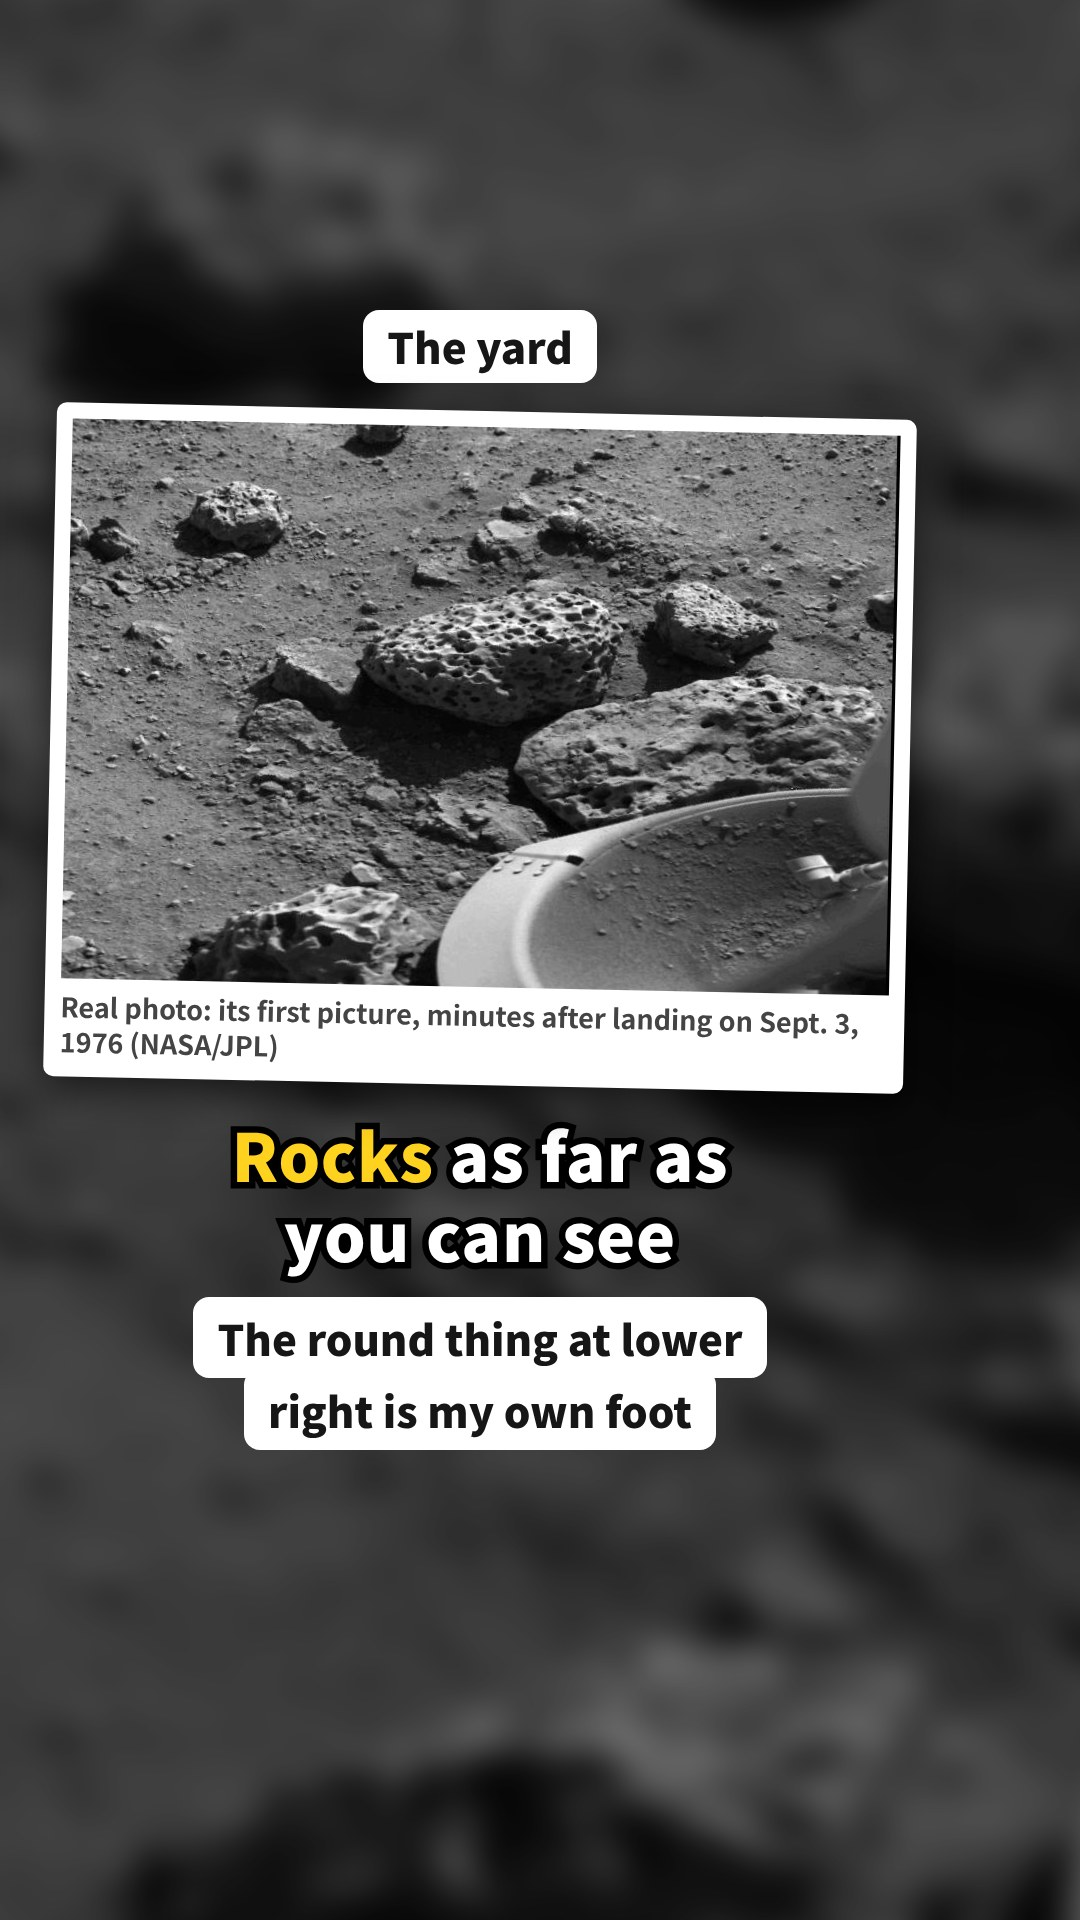
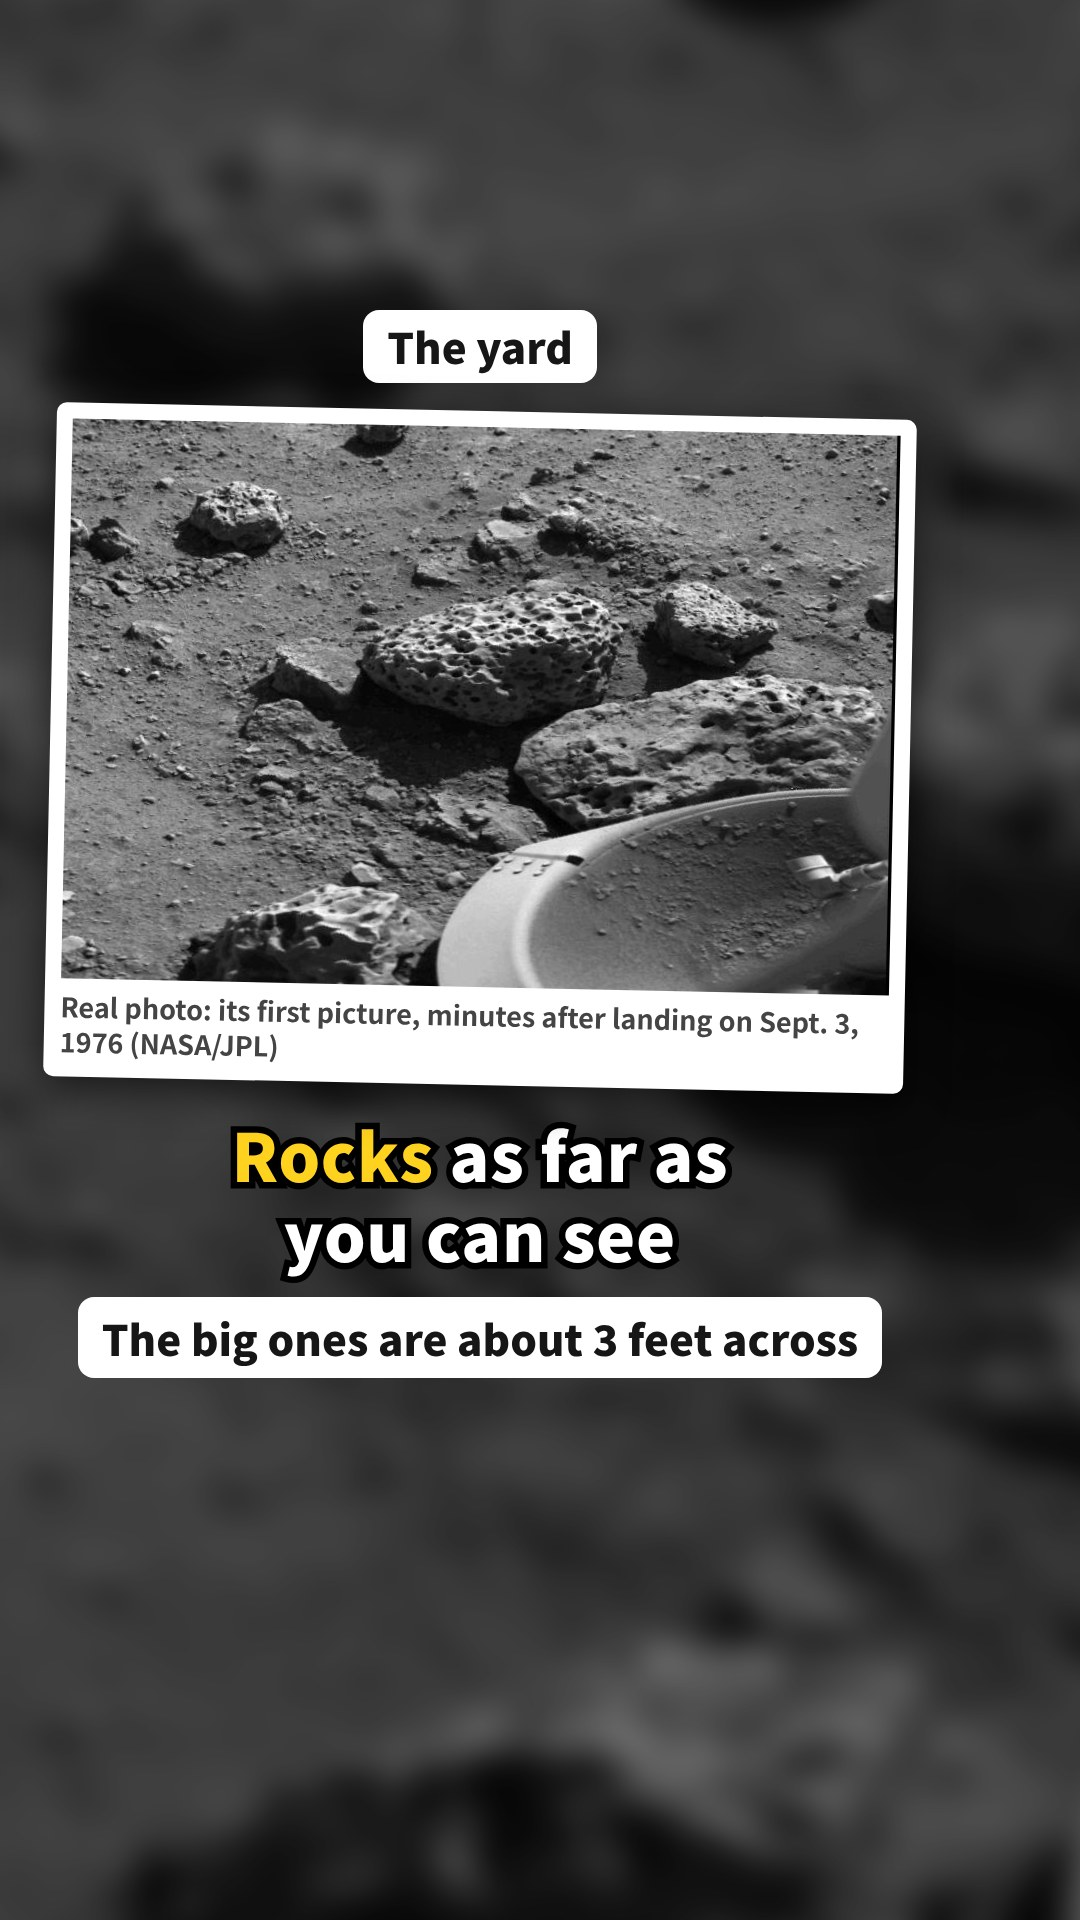
Viking 2 room tour: the yard slide now gives the size of the rocks (the foot joke stays in the list post)
Claude-Session: https://claude.ai/code/session_01KTAQ7xGikBRss9RG9RJzvN

Changed region(s): [[0.0611, 0.6562, 0.825, 0.7812]]

diff --git a/sw.js b/sw.js
@@ -1,5 +1,5 @@
 // Offline support: app shell cached on install; data network-first; media cache-first.
-const V = 'oor-v41';
+const V = 'oor-v42';
 const SHELL = ['./', 'index.html', 'css/app.css', 'js/main.js', 'js/i18n.js', 'js/data.js', 'js/store.js', 'js/render.js', 'js/feed.js', 'js/sheets.js', 'js/pages.js', 'js/create.js', 'js/speech.js', 'js/audio.js', 'js/furi.js', 'js/map.js', 'vendor/idb-keyval.js', 'vendor/html-to-image.js', 'manifest.webmanifest', 'icons/icon-192.png'];
 self.addEventListener('install', e => { e.waitUntil(caches.open(V).then(c => c.addAll(SHELL)).then(() => self.skipWaiting())); });
 self.addEventListener('activate', e => { e.waitUntil(caches.keys().then(ks => Promise.all(ks.filter(k => k !== V).map(k => caches.delete(k)))).then(() => self.clients.claim())); });

diff --git a/tools/slides/p_viking2.py b/tools/slides/p_viking2.py
@@ -82,12 +82,12 @@ SLIDES = [
     tilt(),
     bx('着陸したら、8.5度かたむいてた', 'It landed with an 8.5° tilt', 'sm'),
     f'<div class="cr" style="position:static;max-width:860px">{t("わたしたちが描いたイラストです。本当の地面は、ほぼ平ら", "Our own drawing. The real ground is nearly level")}</div>', style='top:310px;gap:26px')),
- dict(dur=5, alt={'ja': '庭。見わたすかぎり岩。右下のまるいものは、自分の足', 'en': 'The yard. Rocks as far as you can see. The round thing at lower right is its own foot'},
+ dict(dur=5, alt={'ja': '庭。見わたすかぎり岩。大きい岩は、はば90センチくらい', 'en': 'The yard. Rocks as far as you can see. The big ones are about 3 feet across'},
   html=lambda: bg('PIA00396', '70% 50%', 1.1, BLUR) + col(
     tag('庭', 'The yard', 'white sm'),
     photo('PIA00396', '本物の写真：着陸して数分後の1枚目。1976年9月3日（NASA/JPL）', 'Real photo: its first picture, minutes after landing on Sept. 3, 1976 (NASA/JPL)', 860, 1.2, 560, '100% 50%'),
     h('見わたすかぎり<em>岩</em>', '<em>Rocks</em> as far as<br>you can see', 'md'),
-    bx('右下のまるいのは、自分の足', 'The round thing at lower right is my own foot', 'sm'), style='top:310px;gap:28px')),
+    bx('大きい岩は、はば90cmくらい', 'The big ones are about 3 feet across', 'sm'), style='top:310px;gap:28px')),
  dict(dur=5.5, alt={'ja': '冬。庭が白くなる。うすい水の氷、霜。1979年5月18日の本物の写真', 'en': 'In winter the yard turns white. A thin coat of water ice: frost. A real photo from May 18, 1979'},
   html=lambda: bg('PIA00571', '50% 60%', 1.1, BLUR) + col(
     tag('冬', 'In winter', 'blue sm'),
@@ -158,7 +158,7 @@ Note: “rent $0” and the room-tour format are ours. The floor plan and the ti
   pj('PIA00571', 'Ice on Mars Utopia Planitia Again (May 18, 1979; thin coating of water ice; earlier frost remained about 100 days)', 'NASA/JPL'),
   pj('PIA00573', 'Frost at the Viking Lander 2 Site (Sept. 25, 1977)', 'NASA/JPL'),
   pj('PIA01882', 'Viking Lander 2 Imaged from Orbit (lander about 3 meters across; located by the HiRISE camera in 2006)', 'NASA/JPL-Caltech/University of Arizona'),
-  nasa_img('ARC-1976-AC76-1011-2-15', 'Viking 2: a utopian bright summer afternoon on Mars (Sept. 7, 1976)', 'NASA'),
+  nasa_img('ARC-1976-AC76-1011-2-15', 'Viking 2: a utopian bright summer afternoon on Mars (Sept. 7, 1976; rocks as large as three feet across)', 'NASA'),
   fact("For @phoenix_lander's comment: Phoenix (NASA Science): verified water ice in the Martian subsurface", 'https://science.nasa.gov/mission/phoenix/'),
   src('calc', 'Sept. 3, 1976 to April 12, 1980 is 3 years 7 months; 1976 to 2026 is 50 years', V2),
   music('Local Forecast - Elevator')])
